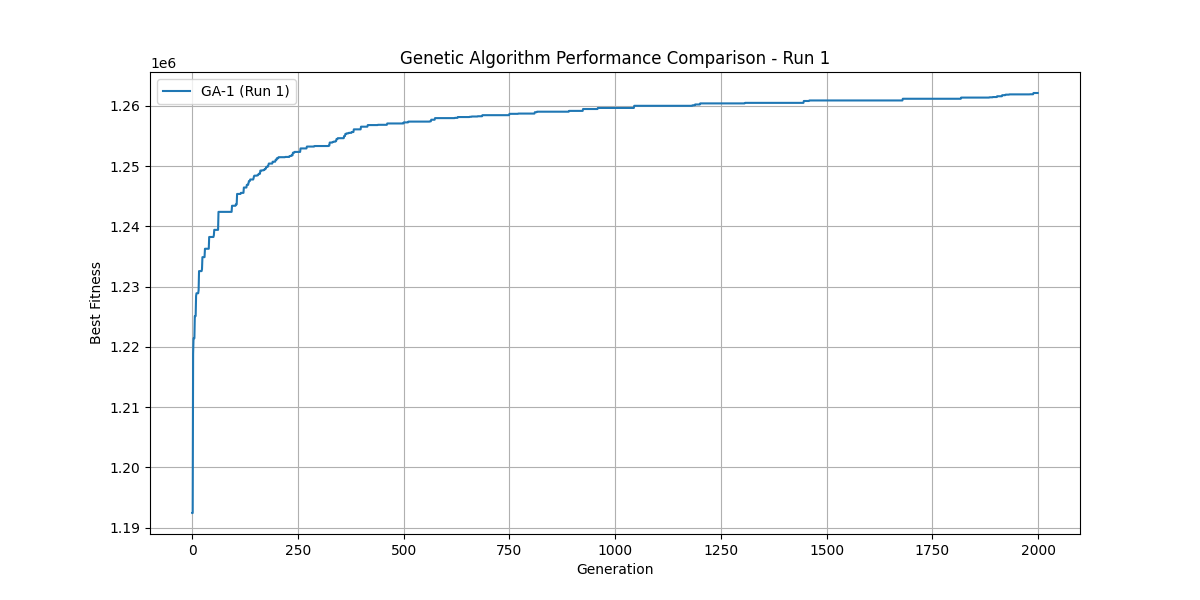
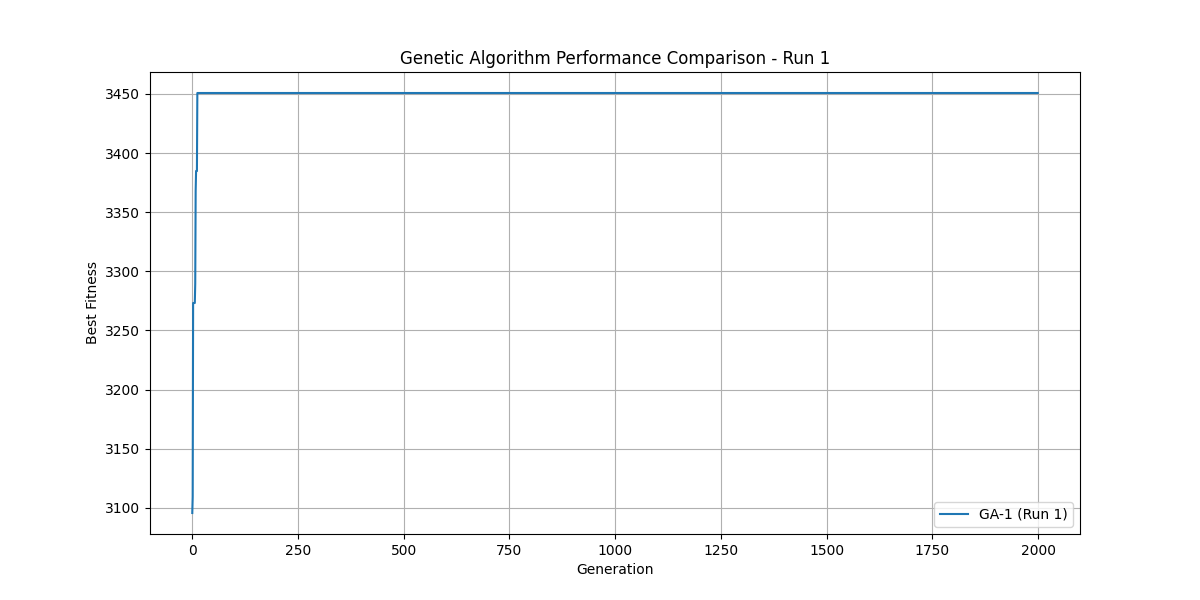
updating codebase

diff --git a/fitness_function.py b/fitness_function.py
@@ -6,7 +6,6 @@ def calculate_fitness(solution: Tuple[List[int], List[int]], ttp_solver: 'TTPSol
     total_value = 0
     current_weight = 0
     total_time = 0
-    
     # Base fitness value
     base_fitness = 1000000
     
@@ -15,10 +14,9 @@ def calculate_fitness(solution: Tuple[List[int], List[int]], ttp_solver: 'TTPSol
     MIN_VELOCITY = 0.1
     VELOCITY_REDUCTION_FACTOR = 0.001  # How much each item's weight reduces velocity
     
-    for i in range(len(route)):
+    for i in range(1):
         current_city = route[i]
         next_city = route[(i + 1) % len(route)]
-        
         # Calculate item value and weight for current city
         city_value = 0
         for item_idx in range(len(picking_plan)):
@@ -44,7 +42,7 @@ def calculate_fitness(solution: Tuple[List[int], List[int]], ttp_solver: 'TTPSol
     rental_cost = ttp_solver.renting_ratio * total_time
     
     # Calculate total profit (value - rent)
-    total_profit = (total_value * 100) - rental_cost  # Scale up values
+    total_profit = (total_value) - rental_cost  # Scale up values
     
     # Apply weight penalty if over capacity
     if current_weight > ttp_solver.capacity:
@@ -52,7 +50,6 @@ def calculate_fitness(solution: Tuple[List[int], List[int]], ttp_solver: 'TTPSol
         return base_fitness - weight_penalty
     
     # Final fitness calculation combining base fitness and profit
-    objective = base_fitness + total_profit
 
     
-    return max(100, objective)  # Ensure meaningful minimum value
+    return max(0, round(total_profit, 2))  # Ensure meaningful minimum value

diff --git a/main.py b/main.py
@@ -10,7 +10,7 @@ def run_genetic_algorithm(name: str, filename: str, population_size: int, mutati
     benchmark_data = read_benchmark_file(filename)
     num_items = benchmark_data.get('items')
 
-    items = generate_items("DATASET/a29.txt")
+    items = generate_items(f'{filename}')
 
     ttp_solver = TTPSolver(
         cities=benchmark_data['cities'],
@@ -23,6 +23,7 @@ def run_genetic_algorithm(name: str, filename: str, population_size: int, mutati
 
     ga = GeneticAlgorithm(population_size, mutation_rate, generations)
     population = ga.initialize_population(len(benchmark_data['cities']), len(items))
+    
 
     best_fitness_history = []
     best_solution = None

diff --git a/ttp_benchmark_solver.py b/ttp_benchmark_solver.py
@@ -63,7 +63,7 @@ def generate_items(filename: str) -> List[Tuple[int, float, float, int]]:
                 break
             
             parts = line.split()
-            if len(parts) == 3:
+            if len(parts) == 4:
                 profit = float(parts[1])
                 weight = float(parts[2])
                 items.append((profit, weight))
